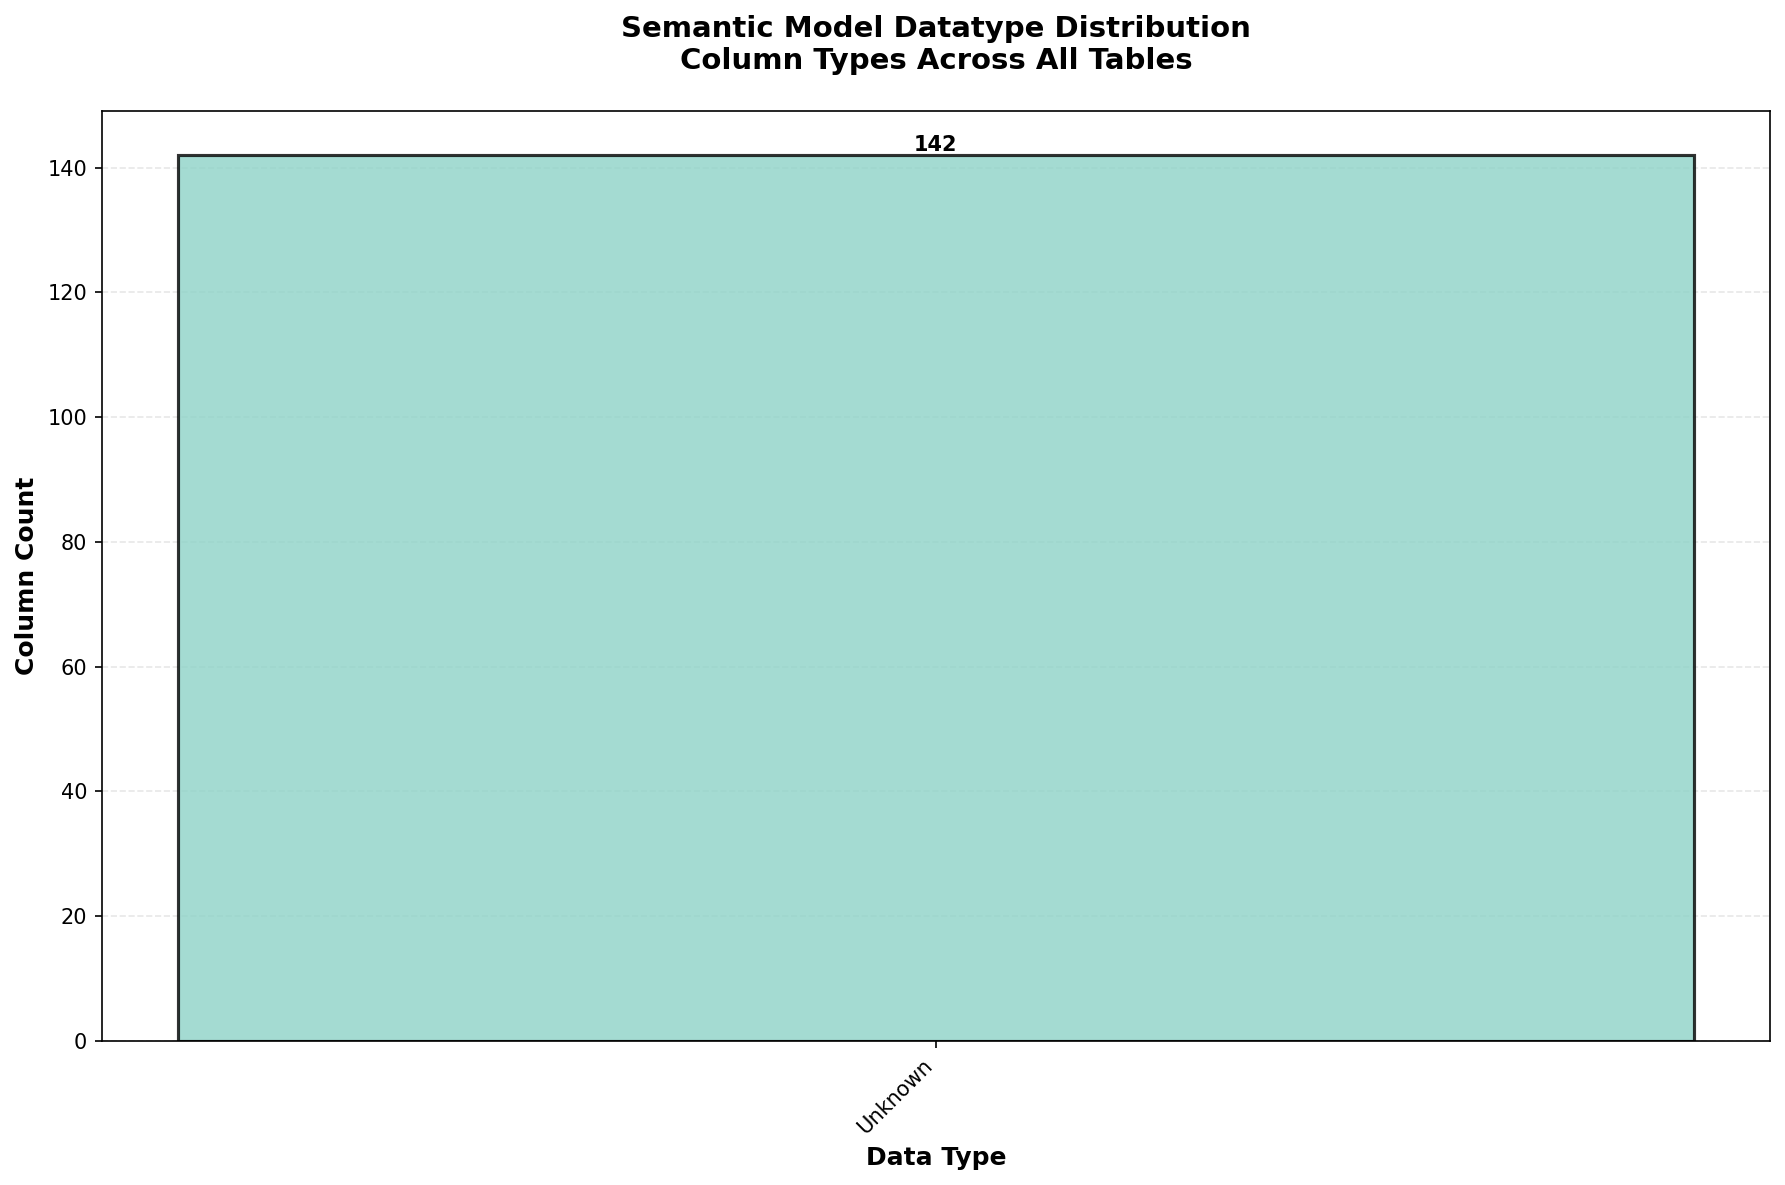
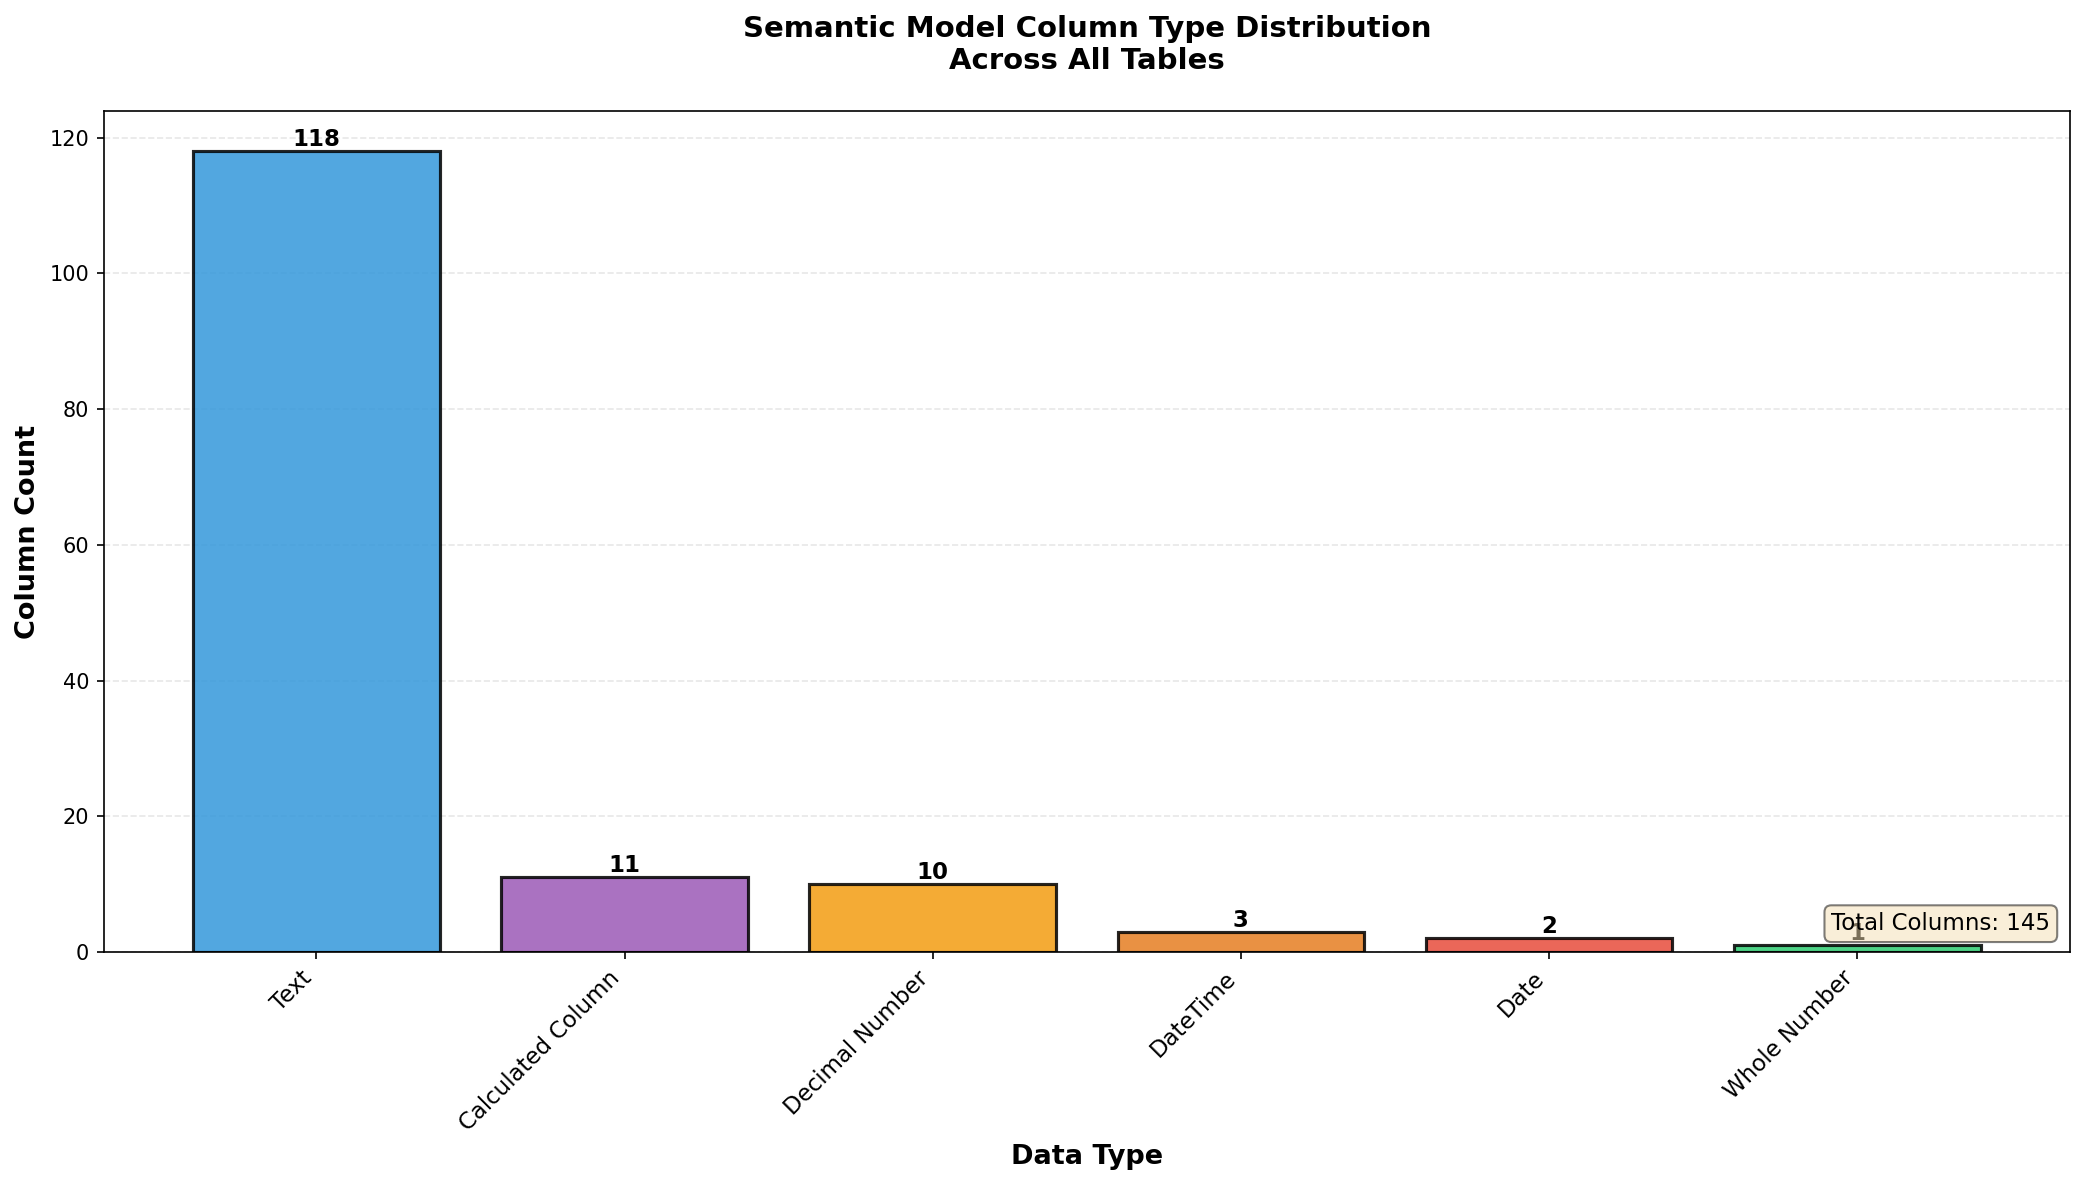
fix: Properly detect and classify column datatypes
- Fixed visualizer field reference (datatype → dataType with capital T)
- Enhanced parse_tables.py to parse TMDL line-by-line detecting:
  - dateTime, int64, double, string types from dataType field
  - Calculated columns (marked with is_calculated flag)
- Added classification logic in visualizer:
  - Text (string)
  - Whole Number (int64)
  - Decimal Number (double, real)
  - Date (dateTime)
  - DateTime (dateTime without date context)
  - Calculated Column (detected from expressions)
- Regenerated datatype_distribution.png showing accurate type distribution:
  118 Text, 11 Calculated Column, 10 Decimal Number, 3 DateTime, 2 Date, 1 Whole Number

diff --git a/visualizers/datatype_distribution.py b/visualizers/datatype_distribution.py
@@ -30,12 +30,49 @@ class DatatypeDistributionBuilder:
         
         for table in self.tables:
             for column in table.get('columns', []):
-                datatype = column.get('datatype', 'Unknown')
-                datatypes[datatype] += 1
+                col_name = column.get('name', '')
+                col_type = column.get('dataType', 'Unknown')  # Fix: dataType with capital T
+                
+                # Classify column type
+                column_type = self._classify_column_type(col_name, col_type)
+                datatypes[column_type] += 1
         
         return dict(datatypes)
     
-    def create_visualization(self, output_file: str, figsize: tuple = (12, 8)):
+    def _classify_column_type(self, col_name: str, datatype: str) -> str:
+        """Classify column type based on name and datatype"""
+        col_lower = col_name.lower()
+        
+        # Detect calculated columns (contain "=")
+        if ' = ' in col_name:
+            return 'Calculated Column'
+        
+        # Classify by Power BI datatype
+        if datatype == 'string':
+            return 'Text'
+        elif datatype in ['int64', 'int', 'integer']:
+            return 'Whole Number'
+        elif datatype in ['double', 'real', 'float', 'decimal']:
+            return 'Decimal Number'
+        elif datatype in ['dateTime', 'date']:
+            if 'date' in col_lower or 'fecha' in col_lower or 'posting' in col_lower:
+                return 'Date'
+            return 'DateTime'
+        elif datatype == 'boolean':
+            return 'True/False'
+        elif datatype == 'binary':
+            return 'Binary'
+        else:
+            # For unknown types, try to infer from name
+            if any(k in col_lower for k in ['amt', 'amount', 'qty', 'quantity', 'count', 'total']):
+                return 'Whole Number'
+            elif any(k in col_lower for k in ['price', 'rate', 'pct', 'percent']):
+                return 'Decimal Number'
+            elif any(k in col_lower for k in ['date', 'fecha', 'posting', 'month', 'day']):
+                return 'Date'
+            return f'Other ({datatype})'
+    
+    def create_visualization(self, output_file: str, figsize: tuple = (14, 8)):
         """Create bar chart visualization"""
         datatype_dist = self._extract_datatype_distribution()
         
@@ -50,11 +87,22 @@ class DatatypeDistributionBuilder:
         # Create figure
         fig, ax = plt.subplots(figsize=figsize, dpi=150)
         
-        # Color palette
-        colors = plt.cm.Set3(range(len(types)))
+        # Color palette with meaningful colors for data types
+        color_map = {
+            'Text': '#3498db',
+            'Whole Number': '#2ecc71',
+            'Decimal Number': '#f39c12',
+            'Date': '#e74c3c',
+            'DateTime': '#e67e22',
+            'Calculated Column': '#9b59b6',
+            'True/False': '#1abc9c',
+            'Binary': '#34495e'
+        }
+        
+        colors = [color_map.get(t, '#95a5a6') for t in types]
         
         # Create bar chart
-        bars = ax.bar(types, counts, color=colors, alpha=0.8, edgecolor='black', linewidth=1.5)
+        bars = ax.bar(types, counts, color=colors, alpha=0.85, edgecolor='black', linewidth=1.5)
         
         # Add value labels on bars
         for bar in bars:
@@ -65,25 +113,38 @@ class DatatypeDistributionBuilder:
                 f'{int(height)}',
                 ha='center',
                 va='bottom',
-                fontsize=10,
+                fontsize=11,
                 fontweight='bold'
             )
         
         # Styling
-        ax.set_xlabel('Data Type', fontsize=12, fontweight='bold')
-        ax.set_ylabel('Column Count', fontsize=12, fontweight='bold')
+        ax.set_xlabel('Data Type', fontsize=13, fontweight='bold')
+        ax.set_ylabel('Column Count', fontsize=13, fontweight='bold')
         ax.set_title(
-            'Semantic Model Datatype Distribution\nColumn Types Across All Tables',
+            'Semantic Model Column Type Distribution\nAcross All Tables',
             fontsize=14,
             fontweight='bold',
             pad=20
         )
         
-        plt.xticks(rotation=45, ha='right')
+        plt.xticks(rotation=45, ha='right', fontsize=11)
+        plt.yticks(fontsize=10)
         
         # Add grid for readability
         ax.grid(axis='y', alpha=0.3, linestyle='--')
         ax.set_axisbelow(True)
+        
+        # Add total at bottom
+        total = sum(counts)
+        ax.text(
+            0.99, 0.02,
+            f'Total Columns: {total}',
+            transform=ax.transAxes,
+            fontsize=11,
+            verticalalignment='bottom',
+            horizontalalignment='right',
+            bbox=dict(boxstyle='round', facecolor='wheat', alpha=0.5)
+        )
         
         plt.tight_layout()
         

diff --git a/parsers/parse_tables.py b/parsers/parse_tables.py
@@ -51,19 +51,47 @@ class TableParser:
     def _extract_columns(self, content: str) -> List[Dict[str, str]]:
         """Extract columns from TMDL content"""
         columns = []
-        col_pattern = r"column\s+(['\"]?)([^'\"\n]+)\1\s*\n((?:\t[^\n]*\n)*?)"
-        
-        for match in re.finditer(col_pattern, content):
-            col_name = match.group(2).strip()
-            col_block = match.group(3)
-            
-            datatype_match = re.search(r'dataType:\s*(\w+)', col_block)
-            datatype = datatype_match.group(1) if datatype_match else 'string'
-            
-            columns.append({
-                'name': col_name,
-                'dataType': datatype
-            })
+        lines = content.split('\n')
+        i = 0
+        while i < len(lines):
+            line = lines[i]
+            # Look for column definition at indent level 1 (single tab)
+            if line.strip().startswith('column '):
+                col_def = line.strip()
+                col_name = col_def.replace('column ', '').strip()
+                
+                # Initialize column data
+                datatype = 'string'
+                
+                # Look ahead for column properties (indented with at least 2 tabs)
+                j = i + 1
+                while j < len(lines):
+                    prop_line = lines[j]
+                    if not prop_line.strip():
+                        # Skip blank lines
+                        j += 1
+                        continue
+                    # Stop if we hit a property at lower indent level (new column)
+                    if prop_line and not prop_line.startswith('\t\t'):
+                        break
+                    # Extract dataType
+                    if 'dataType:' in prop_line:
+                        datatype_match = re.search(r'dataType\s*:\s*(\S+)', prop_line)
+                        if datatype_match:
+                            datatype = datatype_match.group(1)
+                    j += 1
+                
+                # Detect if it's a calculated column
+                is_calculated = ' = ' in col_name
+                
+                columns.append({
+                    'name': col_name,
+                    'dataType': datatype,
+                    'is_calculated': is_calculated
+                })
+                i = j if j > i + 1 else i + 1
+            else:
+                i += 1
         
         return columns
     

diff --git a/check_types.py b/check_types.py
@@ -1,0 +1,22 @@
+import json
+with open('powerbi-project/data/tables.json') as f:
+    tables = json.load(f)
+    
+# Get all unique datatypes
+datatypes = set()
+for table in tables:
+    for col in table.get('columns', []):
+        datatypes.add(col.get('dataType', 'Unknown'))
+
+print('Unique dataTypes found:', sorted(datatypes))
+print()
+
+# Sample columns from different types
+print('Sample columns by type:')
+seen_types = set()
+for table in tables:
+    for col in table.get('columns', []):
+        dt = col.get('dataType')
+        if dt and dt not in seen_types:
+            print(f"  {col['name']}: {dt}")
+            seen_types.add(dt)

diff --git a/inspect_tmdl.py b/inspect_tmdl.py
@@ -1,0 +1,7 @@
+# Read a table file and print first 80 lines to understand structure
+with open('../RecursosFuente/OnlineBaseline.SemanticModel/definition/tables/fact_spend_transactions.tmdl', 'r') as f:
+    lines = f.readlines()[:80]
+    for i, line in enumerate(lines, 1):
+        # Show spaces/tabs explicitly
+        display = line.replace('\t', '→').replace(' ', '·')
+        print(f"{i:3d}: {display.rstrip()}")

diff --git a/check_classification.py b/check_classification.py
@@ -1,0 +1,10 @@
+import json
+from visualizers.datatype_distribution import DatatypeDistributionBuilder
+
+# Load and classify
+viz = DatatypeDistributionBuilder('powerbi-project/data/tables.json')
+distribution = viz._extract_datatype_distribution()
+
+print("Datatype Distribution (Classified):")
+for dtype, count in sorted(distribution.items(), key=lambda x: x[1], reverse=True):
+    print(f"  {dtype}: {count}")
